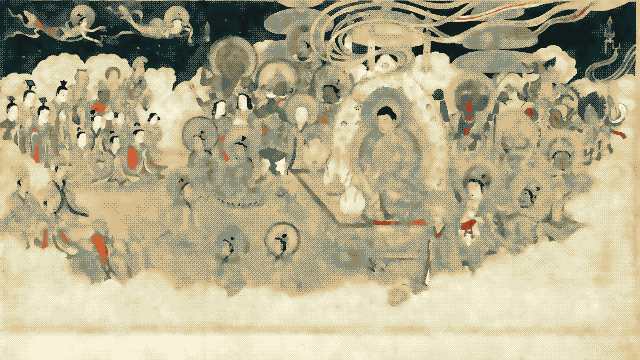
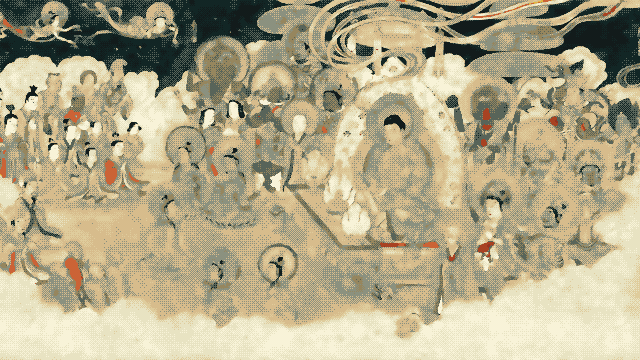
masters (T18 must-fix 1): no paper at any picture's edge — a build check, seven crops brought in
- tools/build-masters.py: edges() refuses a picture whose side holds flat lines unlike what
  follows (paper, a mount) or outer 1-4 lines stepping from the ones just inside (a frame line);
  a painting's own gradient ramps and passes; --check runs it on made pictures
- seven crops in masters.toml (the master's six + takiyasha's bottom border line); the hag's poem
  card cropped off and its two pale sheet joins filled across (a new joins key)
- wallpapers.list: the seven new hashes; test_masters runs the check over art/masters/out
  (HEAD's pictures fail it: 10 findings)

diff --git a/tools/build-masters.py b/tools/build-masters.py
@@ -16,10 +16,17 @@ Reads art/masters/masters.toml — one table a picture:
                                  lacquer, the lines and colours light, as gold on lacquer
     lift    = 0.0                lightness added before the palette (−0.2 … 0.2)
     gain    = 1.0                contrast around the middle before the palette
+    joins   = [[x0, x1], …]      the source's columns where two sheets of a print meet (a pale
+                                 seam down the picture): filled across from either side
 writes art/masters/out/NAME.png: 640 × 360 pixels, every one a colour of its mood's palette
 (an indexed PNG: a few dozen kilobytes) — the screen shows each as 3 × 3 (1920 × 1080; 2 × 2 on
 1280 × 720, 4 × 4 on 2560 × 1440, 6 × 6 on 4K: always whole pixels, never smoothed).
 --sheet FILE: every picture written, side by side at 1:1 and halved, for the grill.
+--check FILE…: the edge check (below) on pictures already made — tests/static/test_masters.sh.
+
+No paper at the edges: a picture whose side still holds the print's margin, its frame line or
+a mount is refused (edges(): the outer 1–4 rows or columns against the 20 inside them, by
+lightness) — the crop comes in until none is left.
 
 How: the crop reduced to 640 × 360 in linear light (Lanczos: each pixel the mean of what it
 covers, no darkening at edges), its tones set as the table asks, then each pixel given the
@@ -90,9 +97,14 @@ def hexes(h):
     return np.array([[int(x[i:i + 2], 16) for i in (0, 2, 4)] for x in h]) / 255
 
 
-def reduce(img, crop):
+def reduce(img, crop, joins=()):
     x, y, w, h = crop
     a = np.asarray(img.convert("RGB").crop((x, y, x + w, y + h)), dtype=np.float64) / 255
+    for x0, x1 in joins:              # (each seam filled across, column by column, from its sides)
+        lo, hi = x0 - x - 1, x1 - x + 1   # (the last column before it, the first after)
+        if 0 <= lo and hi < w:
+            t = (np.arange(lo + 1, hi) - lo)[None, :, None] / (hi - lo)
+            a[:, lo + 1:hi] = a[:, lo:lo + 1] * (1 - t) + a[:, hi:hi + 1] * t
     lin = srgb_to_linear(a)
     # (Pillow resizes 8-bit or float images: each channel as a float plane, in linear light)
     planes = [Image.fromarray(lin[..., i].astype(np.float32), "F").resize((W, H), Image.LANCZOS)
@@ -161,18 +173,54 @@ def quantise(lab, mood, chroma=0.07, hue_deg=40, margin=0.1):
     return np.where(use, len(rl) + best, ramp_idx)
 
 
+# the edges a picture must not have (the master's T18 review: six had a print's paper margin,
+# its frame line or a mount at the screen's edge), by lightness, side by side: flat lines at the
+# edge (one ink across: paper, a mount) unlike the EDGE_IN after them — a print's plain ground
+# going on inside is its own; or the outer 1–EDGE_BAND lines stepping by more than EDGE_STEP
+# from the EDGE_BAND just inside them (a frame line) — a painting's own gradient ramps, it does
+# not step. (A margin of dithered paper wider than that is seen only by eye: lotus-sutra-gateway's)
+EDGE_BAND, EDGE_IN, EDGE_STEP, EDGE_FLAT, EDGE_LINE = 4, 20, 0.08, 0.03, 0.05
+
+
+def edges(L):
+    """L: the picture's lightness (OKLab), H × W. What is wrong at its edges, a phrase each."""
+    found = []
+    for side, a in (("top", L), ("bottom", L[::-1]), ("left", L.T), ("right", L.T[::-1])):
+        what = "row" if side in ("top", "bottom") else "column"
+        k = 0
+        while k < 40 and a[k].std() < EDGE_FLAT:
+            k += 1
+        if k:
+            inner = a[k:k + EDGE_IN].mean()
+            if abs(a[:k].mean() - inner) > EDGE_LINE:
+                found.append(f"{side}: {k} flat {what}{'s' * (k > 1)} at L {a[:k].mean():.2f}, inside {inner:.2f}")
+                continue
+        for n in range(1, EDGE_BAND + 1):
+            band, nxt = a[:n].mean(), a[n:n + EDGE_BAND].mean()
+            if abs(band - nxt) > EDGE_STEP:
+                found.append(f"{side}: its outer {n} {what}{'s' * (n > 1)} at L {band:.2f}, the next {EDGE_BAND} {nxt:.2f}")
+                break
+    return found
+
+
+def lightness(img):
+    return oklab(srgb_to_linear(np.asarray(img.convert("RGB"), dtype=np.float64) / 255))[..., 0]
+
+
 def build(name, spec):
     src = CACHE / spec["source"]
     data = src.read_bytes()
     if hashlib.sha256(data).hexdigest() != spec["sha256"]:
         sys.exit(f"build-masters: {name}: {src} is not the file SOURCES.md names (sha256)")
     img = Image.open(src)
-    lin = reduce(img, spec["crop"])
+    lin = reduce(img, spec["crop"], spec.get("joins", ()))
     lab = tones(smooth(oklab(lin)), spec, spec["theme"])
     idx = quantise(lab, spec["theme"], spec.get("chroma", 0.07), spec.get("hue", 40))
     out = Image.fromarray(idx.astype(np.uint8), "P")
     flat = (hexes(PALETTE[spec["theme"]]) * 255).round().astype(np.uint8).flatten().tolist()
     out.putpalette(flat + [0] * (768 - len(flat)))
+    if bad := edges(lightness(out)):
+        sys.exit(f"build-masters: {name}: paper at its edges — bring the crop in: " + "; ".join(bad))
     OUT.mkdir(parents=True, exist_ok=True)
     out.save(OUT / f"{name}.png", optimize=True)
     return out
@@ -183,7 +231,15 @@ def main(argv):
     ap.add_argument("names", nargs="*")
     ap.add_argument("--sheet")
     ap.add_argument("--spec", default=str(SPEC))
+    ap.add_argument("--check", nargs="+", metavar="FILE")
     a = ap.parse_args(argv)
+    if a.check:
+        bad = 0
+        for f in a.check:
+            for b in edges(lightness(Image.open(f))):
+                print(f"{pathlib.Path(f).stem}: {b}")
+                bad += 1
+        return 1 if bad else 0
     specs = tomllib.loads(pathlib.Path(a.spec).read_text())
     names = a.names or list(specs)
     made = []

diff --git a/.claude/notes/02-LEDGER.md b/.claude/notes/02-LEDGER.md
@@ -4504,6 +4504,26 @@ Mac: tell owner to `sudo rm /etc/sudoers.d/90-claude-temp` on the Mac if present
   key → his picture, the bar as it was, 144 Hz, (c) the monitor's power button off/on → the picture back, (d) a cable
   pull and back → the picture back; then as kawa-display's runtime force for the EDID it read unforced at boot only (a
   different monitor: no force), VM-proven for the boot path first. Until then: not adopted.
+- r27-18-mf1 (4 Nov 01:13–01:18, the master's T18 must-fix 1): tools/build-masters.py's edge check — edges(): by
+  lightness, side by side, flat lines at the edge (one ink across: paper, a mount) whose lightness differs by > 0.05 from
+  the 20 inside them, or the outer 1–4 lines stepping by > 0.08 from the 4 just inside them (a frame line); a painting's
+  own gradient ramps and passes (the master's first form — outer band vs the next 20 — also flagged fudo-flames,
+  raijin-korin and white-kannon-kyosai, whose edges RAMP with texture, std 0.15–0.21: measured profiles, a 5× look —
+  so the step is taken against the adjacent lines; a print's plain ground going on inside passes: hagoromo-noh, white-
+  kannon-cleveland). The build refuses a picture with paper at an edge; `--check FILE…` runs it on made ones. On HEAD's 21
+  it found the master's six (asajigahara-hag right 3 paper columns; benten-biwa 6 + 3; dragon-palace-jewel top 4 dark
+  rows; feather-robe-tennin top 3 + bottom 4; goddess-dragon a frame line at right; lotus-sutra-gateway top row + right 3)
+  and a seventh: takiyasha-skeleton's bottom row, a border line (L 0.41 against 0.57). Seven crops brought in
+  (masters.toml, each 16:9 inside its file: hag [508, 93, 1168, 657] past the poem card, its two pale sheet joins filled
+  across from either side — a new `joins` key, source columns 574–595 and 1122–1137; benten [88, 201, 2080, 1170]; dragon-
+  palace [244, 124, 3161, 1778]; feather-robe [316, 14, 1077, 606]; goddess-dragon [93, 311, 1472, 828]; lotus-sutra a
+  narrower window inside the field, [640, 250, 2720, 1530], its blank 26 bottom rows gone; takiyasha [313, 60, 6044,
+  3400]); rebuilt (3.3 s), all 21 pass, looked at 1:1 (/dev/shm/r27/T02b/seven-0.png, seven-1.png): margins, lines and
+  the card gone, compositions kept (the hag now enters from the left edge). wallpapers.list: the seven new SHA-256s.
+  tests/static/test_masters.sh: a case running --check over art/masters/out — 3/0; HEAD's pictures fail it (10
+  findings). Not caught by the rule, by eye only: a margin of DITHERED paper wider than 4 lines (lotus' was; fixed by its
+  crop) — said in the script. Left of T18: must-fix 4's sheet + both in-place shots from the committed files, the
+  should-fixes, the master's review 2; the pack refreshes the seven at the next apply (r27-18-mf3).
 ## >>> NEXT PASS STARTS HERE (3 Nov, written ~06:10 by the 03:32 bulk pass — the lines above say what it did): the inbox first.
 ## (0) PRESENCE before anything he could see or hear (memories presence-not-just-input-idle, probes-cut-off-session,
 ##     never-kill-a-computed-list): every kit/headless run through tools/hl-dwl.sh or tools/kit.sh; never a kill by a list.
@@ -4523,10 +4543,9 @@ Mac: tell owner to `sudo rm /etc/sudoers.d/90-claude-temp` on the Mac if present
 ## (2) T22 — the master's review 1 FAILED (r27-22-master-1): must-fixes 1 (.rar in yazi) and 2 ("…") DONE on main;
 ##     LEFT must-fix 3 — yazi's modals (rename/create Input, the trash Confirm, Help, Tasks, Which): square frames, §7's
 ##     heading row inside, choices as §7 keys, nothing in the border — rendered both moods, then the should-fixes, review 2.
-## (3) T18 — the master's review 1 FAILED (r27-18-master-1): must-fix 2 (the light ramp's order) DONE 8bf8d1c, 3 (the
-##     pack re-checks each .src's hash) DONE (r27-18-mf3), 4's test DONE (r27-18-mf4a: it caught 8bf8d1c's stale list
-##     hashes — fixed); LEFT 1 (the edges of six pictures, a build check), 4's sheet + shots (a test over
-##     art/masters/out, fresh evidence), the should-fixes; then review 2.
+## (3) T18 — the master's review 1 FAILED (r27-18-master-1): must-fixes 1 (r27-18-mf1: the edge check, seven crops),
+##     2 (8bf8d1c), 3 (r27-18-mf3), 4's test (r27-18-mf4a) DONE; LEFT 4's sheet + both in-place shots (fresh evidence
+##     from the committed files), the should-fixes; then review 2.
 ## (4) T53 → the master (the harness pin committed, 150381b: the suite 128/0).
 ## (5) T46/T46b — Fedora 45 is released TODAY (3 Nov, ~14:00 UTC; releases/45 still 403 at 00:57 UTC): read
 ##     .claude/notes/f45-changes-3nov.md first; then vm-create f45 fresh from the released tree, vm-smoke f45,

diff --git a/.claude/plan.md b/.claude/plan.md
@@ -239,7 +239,7 @@ accept: the matrix in the ledger with every cell green or explained by an upstre
 
 ## Phase 3 — lock, animations, art: the world (demon dark, angel light)
 
-### T18 — the old-master pixel-art pipeline: wallpapers, lock art, the quick-settings head, fetch art, stamps  [wip — tools/build-masters.py built (crop → 640×360 in linear light → bilateral smoothing → tones: keep | lacquer, lift, gain → a neutral ramp by lightness with a 4×4 Bayer between neighbouring steps, accents only for strongly coloured parts of a matching hue); sources: a subagent writes art/masters/SOURCES.md and fetches to ~/.cache/r27-art; next: masters.toml per picture (crops, tones), the pack entries for our own art (served from the toolkit, scaled ×3 by whole pixels, not Lanczos), grill]
+### T18 — the old-master pixel-art pipeline: wallpapers, lock art, the quick-settings head, fetch art, stamps  [wip 4 Nov 01:18 — the master's review 1 must-fixes 1–3 and 4's test DONE (ledger r27-18-mf1, -mf3, -mf4a); left: 4's sheet + in-place shots, the should-fixes, review 2 — tools/build-masters.py built (crop → 640×360 in linear light → bilateral smoothing → tones: keep | lacquer, lift, gain → a neutral ramp by lightness with a 4×4 Bayer between neighbouring steps, accents only for strongly coloured parts of a matching hue); sources: a subagent writes art/masters/SOURCES.md and fetches to ~/.cache/r27-art; next: masters.toml per picture (crops, tones), the pack entries for our own art (served from the toolkit, scaled ×3 by whole pixels, not Lanczos), grill]
 (the master's trace check, 1 Nov 02:00) the fetch art is the old-master pixel art his decision named (not the hand-drawn mask of r27-18(d)): rendered in foot, shot in both moods, then done.
 deps: T08, T09  · model: main (art direction, pixelisation tool, final picks), sub:sonnet (source hunt: public-domain scans with licence lines)  · ledger: r27-18
 files: tools/build-art.py (extended: quantise to the theme palette, ordered dither at the wallpapers' 3 px grid, pixel clean-up passes, a crop/compose spec per picture), art/masters/ (spec files only; sources fetched by checksum into ~/.cache/r27-art, the finished PNGs into the wallpaper pack repo/release as today's pack is), art/icons.txt (demon head for dark / angel head for light: bar right tile 15 px, quick-settings icon, fetch art at the terminal grid as a multi-cell icon block, workspace stamp numerals), bin/fetch, bin/kawa-wallpaper (wallpapers.list entries: ~10 demon "dark" + ~10 angel "light"), tests/look/test_wallpaper.sh, tests/content/test_fetch.sh
